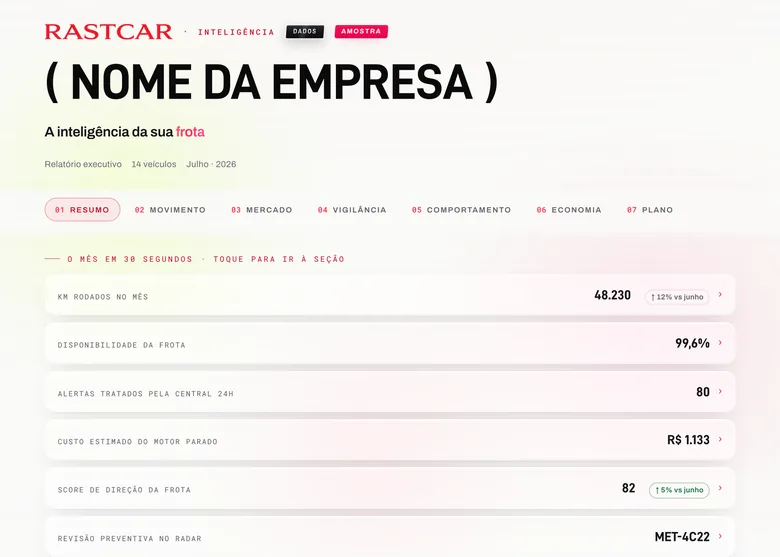
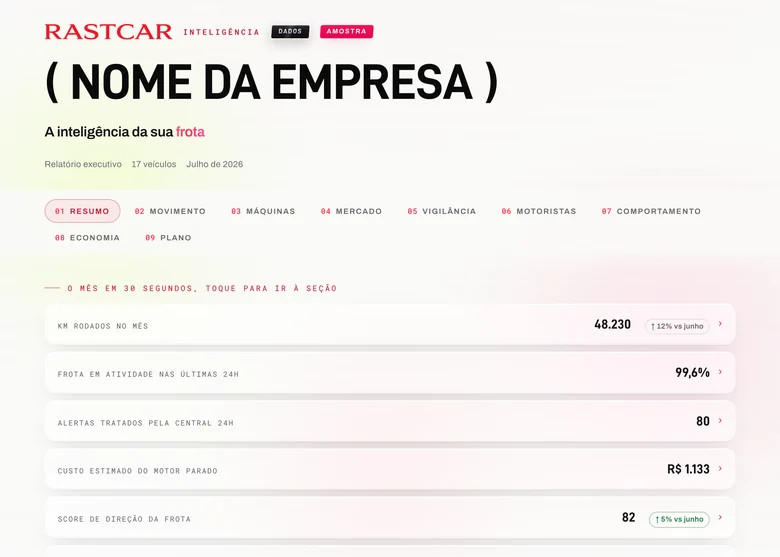
Telas da landing refeitas sobre o relatorio de hoje, com Maquinas e Motoristas

diff --git a/dados/index.html b/dados/index.html
@@ -260,11 +260,13 @@ img{max-width:100%}
    tras assume o centro. Zero scroll-jacking: o JS so LE o scroll.
    ============================================================ */
 #story{position:relative}
-/* 8 folhas x 80vh · a troca de capitulo precisa de CURSO. Com 340vh cada
-   giro de trackpad consumia quase um capitulo inteiro: a cena pulava e dava
-   a sensacao de quebrada. Com 640vh, uma rolada avanca uma fracao do passo
-   e a folha tem tempo de virar. */
-.story-track{position:relative;height:640vh}
+/* A troca de capitulo precisa de CURSO. Com 340vh cada giro de trackpad
+   consumia quase um capitulo inteiro: a cena pulava e dava a sensacao de
+   quebrada. O que importa nao e a altura total, e o CURSO POR TROCA: eram
+   640vh para 8 folhas (7 trocas). Com 10 folhas sao 9 trocas, entao a pista
+   cresce na mesma proporcao (640 x 9/7) para a folha continuar levando o
+   mesmo tanto de rolagem para virar. */
+.story-track{position:relative;height:820vh}
 .story-sticky{
   position:sticky;top:0;
   height:100vh;height:100svh;
@@ -1322,8 +1324,10 @@ footer a:focus-visible,.hero a:focus-visible{outline:2px solid var(--crimson);ou
         <p><strong>A capa com o nome da sua empresa.</strong> Todo mês um documento fechado, com o período, a frota ativa e o mês inteiro resumido em uma tabela.</p>
         <p><strong>O panorama do mês.</strong> Quilometragem total, horas em operação, disponibilidade e a comparação com o mês anterior. No exemplo: 48.230 km, 2.114 horas e 99,6% de disponibilidade.</p>
         <p><strong>Quem mais trabalhou.</strong> A frota inteira ordenada por quilometragem, veículo a veículo, do que mais rodou ao que quase não saiu.</p>
+        <p><strong>As máquinas, medidas em horas.</strong> Escavadeira, retroescavadeira e rolo não rodam quilômetro, produzem hora de motor. Quem tem parque de máquinas recebe um capítulo próprio pelo horímetro: horas trabalhadas, dias em serviço, máquina parada e revisão pelo marco de horas.</p>
         <p><strong>Sua frota comparada com o mercado.</strong> Km por veículo, score de direção e horas de motor parado, lado a lado com a média de frotas anônimas do mesmo porte na carteira da Rastcar.</p>
         <p><strong>O que a central viu.</strong> Cerca virtual, ignição fora de hora, excesso de velocidade e movimentação de madrugada, com placa e horário.</p>
+        <p><strong>Quem esteve ao volante.</strong> Identificação por chave eletrônica no veículo: quem dirigiu o quê, quanto rodou, como dirigiu e quanto da quilometragem saiu sem condutor identificado. Depende da chave eletrônica instalada e dos condutores cadastrados na plataforma.</p>
         <p><strong>Como a frota dirige.</strong> Score de 0 a 100 por veículo, quem precisa de atenção e quem é destaque.</p>
         <p><strong>O dinheiro que a frota deixa na mesa.</strong> Toda operação tem custo escondido. O relatório cruza os dados da frota inteira, converte o desperdício em reais e entrega a lista: quanto está vazando, em quais placas e por onde começar a recuperar. Custo escondido não sobrevive a dado. Cálculo aberto, declarado no próprio relatório, com premissas explícitas: 2 L/h e R$ 5,90 por litro.</p>
         <p><strong>O plano do mês seguinte.</strong> Movimentos práticos com placa e prazo, e uma meta para o próximo relatório cobrar.</p>
@@ -1350,16 +1354,18 @@ footer a:focus-visible,.hero a:focus-visible{outline:2px solid var(--crimson);ou
         <ul class="chips">
           <li><span class="tag ghost rv">Relatório executivo mensal</span></li>
           <li><span class="tag ghost rv" style="--d:.03s">Toda a frota, veículo a veículo</span></li>
-          <li><span class="tag ghost rv" style="--d:.06s">Km por dia, dias rodados</span></li>
-          <li><span class="tag ghost rv" style="--d:.09s">Sua frota vs o mercado</span></li>
-          <li><span class="tag ghost rv" style="--d:.12s">Score de comportamento</span></li>
-          <li><span class="tag ghost rv" style="--d:.15s">Tempo ocioso, custo estimado</span></li>
-          <li><span class="tag ghost rv" style="--d:.18s">Alertas por período do dia</span></li>
-          <li><span class="tag ghost rv" style="--d:.21s">Ranking da operação</span></li>
-          <li><span class="tag ghost rv" style="--d:.24s">Revisão pela quilometragem</span></li>
-          <li><span class="tag ghost rv" style="--d:.27s">Cobertura de sinal</span></li>
-          <li><span class="tag ghost rv" style="--d:.3s">Comparação com o mês anterior</span></li>
-          <li><span class="tag ghost rv" style="--d:.33s">Plano do mês seguinte</span></li>
+          <li><span class="tag ghost rv" style="--d:.06s">Máquinas medidas em horas</span></li>
+          <li><span class="tag ghost rv" style="--d:.09s">Km por dia, dias rodados</span></li>
+          <li><span class="tag ghost rv" style="--d:.12s">Sua frota vs o mercado</span></li>
+          <li><span class="tag ghost rv" style="--d:.15s">Score de comportamento</span></li>
+          <li><span class="tag ghost rv" style="--d:.18s">Motoristas ao volante</span></li>
+          <li><span class="tag ghost rv" style="--d:.21s">Tempo ocioso, custo estimado</span></li>
+          <li><span class="tag ghost rv" style="--d:.24s">Alertas por período do dia</span></li>
+          <li><span class="tag ghost rv" style="--d:.27s">Ranking da operação</span></li>
+          <li><span class="tag ghost rv" style="--d:.3s">Revisão por km e por hora</span></li>
+          <li><span class="tag ghost rv" style="--d:.33s">Cobertura de sinal</span></li>
+          <li><span class="tag ghost rv" style="--d:.36s">Comparação com o mês anterior</span></li>
+          <li><span class="tag ghost rv" style="--d:.39s">Plano do mês seguinte</span></li>
         </ul>
       </div>
     </section>
@@ -1638,24 +1644,29 @@ footer a:focus-visible,.hero a:focus-visible{outline:2px solid var(--crimson);ou
   var track  = story.querySelector('.story-track');
   if(!deck || !asides || !track) return;
 
-  /* as 8 folhas · imagem real do relatorio, uma por capitulo */
+  /* as 10 folhas · imagem real do relatorio, uma por capitulo */
   var PAGS = [
-    {f:'rel-1-capa',      n:'01', h:'Chega com o nome da sua empresa', toque:1,
+    {f:'rel-1-capa',       n:'01', h:'Chega com o nome da sua empresa', toque:1,
      p:'Um documento fechado por mês, com o período, a frota ativa e o mês inteiro resumido logo na abertura.'},
-    {f:'rel-2-panorama',  n:'02', h:'O mês inteiro em um número',
+    {f:'rel-2-panorama',   n:'02', h:'O mês inteiro em um número',
      p:'Quilometragem, horas em operação, disponibilidade e o que mudou desde o mês passado.'},
-    {f:'rel-3-ranking',   n:'03', h:'Quem trabalhou e quem ficou parado',
+    {f:'rel-3-ranking',    n:'03', h:'Quem trabalhou e quem ficou parado',
      p:'A frota inteira em ordem, veículo a veículo, do que mais rodou ao que quase não saiu da garagem.'},
-    {f:'rel-4-porte',     n:'04', h:'Sua frota comparada com o mercado',
+    {f:'rel-4-maquinas',   n:'04', h:'A máquina se mede por hora, não por quilômetro',
+     p:'Quem tem escavadeira, retroescavadeira ou rolo ganha um capítulo próprio, medido pelo horímetro: horas trabalhadas, dias em serviço e a revisão que vence por hora de motor.'},
+    {f:'rel-5-porte',      n:'05', h:'Sua frota comparada com o mercado',
      p:'Km por veículo, direção e motor parado na mesma régua de frotas anônimas do seu porte.'},
-    {f:'rel-5-escudo',    n:'05', h:'O que a central viu de madrugada', toque:1,
+    {f:'rel-6-escudo',     n:'06', h:'O que a central viu de madrugada', toque:1,
      p:'Cerca virtual, ignição fora de hora e movimentação noturna, com placa e horário.'},
-    {f:'rel-6-direcao',   n:'06', h:'O volante vira nota',
+    {f:'rel-7-motoristas', n:'07', h:'Cada quilômetro com um dono',
+     p:'O ranking mostra quem esteve ao volante de cada veículo, quanto rodou, como dirigiu e quanto da quilometragem saiu sem ninguém identificado.',
+     s:'Depende da chave eletrônica no veículo e dos condutores cadastrados na plataforma.'},
+    {f:'rel-8-direcao',    n:'08', h:'O volante vira nota',
      p:'Score de 0 a 100 por veículo. A conversa com a equipe deixa de ser opinião e passa a ser número.'},
-    {f:'rel-7-economia',  n:'07', h:'O dinheiro que a frota deixa na mesa',
+    {f:'rel-9-economia',   n:'09', h:'O dinheiro que a frota deixa na mesa',
      p:'Toda operação tem custo escondido. O relatório cruza os dados da frota inteira, converte o desperdício em reais e entrega a lista: quanto está vazando, em quais placas e por onde começar a recuperar. Custo escondido não sobrevive a dado.',
      s:'Cálculo aberto, declarado no próprio relatório, com premissas explícitas: 2 L/h e R$ 5,90 por litro.'},
-    {f:'rel-8-plano',     n:'08', h:'O mês que vem já vem com plano',
+    {f:'rel-10-plano',     n:'10', h:'O mês que vem já vem com plano',
      p:'Movimentos práticos com placa e prazo, e uma meta para o próximo relatório cobrar.'}
   ];
   var N = PAGS.length;

diff --git a/index.html b/index.html
@@ -152,6 +152,15 @@ nav.seg{
 }
 nav.seg .wrap{display:flex;gap:6px;height:var(--nav-h);align-items:center;overflow-x:auto;scrollbar-width:none}
 nav.seg .wrap::-webkit-scrollbar{display:none}
+/* A fileira de 9 secoes mede ~1190px e so cabe inteira acima de 1400px de
+   janela: em notebook de 1280 o indice saia CORTADO no meio da palavra.
+   No desktop ninguem rola barra de indice de lado, entao ela QUEBRA em duas
+   linhas quando nao couber. O rolo horizontal continua no celular, onde o
+   gesto e natural. Estrutural: vale pra qualquer largura e qualquer
+   quantidade de secoes, nao so pras 9 de hoje. */
+@media (min-width:820px){
+  nav.seg .wrap{flex-wrap:wrap;height:auto;overflow:visible;row-gap:4px;padding-top:13px;padding-bottom:13px}
+}
 nav.seg a{
   flex:0 0 auto;font-family:var(--head);font-weight:600;font-size:11px;letter-spacing:.13em;text-transform:uppercase;
   color:var(--muted);text-decoration:none;padding:7px 14px;border-radius:999px;
@@ -2328,7 +2337,10 @@ function __boot(){
     if(acao) row('#plano','Primeira ação do mês que vem', esc(acao.textContent), '', true);
     if(rows.length<3) return; // com pouco dado a porta de entrada não ajuda
     var sec=document.createElement('section'); sec.className='block dg'; sec.id='mes30';
-    sec.innerHTML='<p class="dgt reveal">O mês em 30 segundos<span class="scr">, toque para ir à seção</span></p>'+
+    /* a frase inteira num SO item de flex: solta, o "<span class=scr>" virava
+       item proprio e o gap de 11px do .dgt caia ANTES da virgula ("SEGUNDOS ,
+       TOQUE"). O gap existe pro risco do ::before e nao pode sair. */
+    sec.innerHTML='<p class="dgt reveal"><span>O mês em 30 segundos<span class="scr">, toque para ir à seção</span></span></p>'+
       '<div class="dgrid reveal">'+rows.join('')+'</div>';
     mn.insertBefore(sec, mn.firstElementChild);
     Array.prototype.forEach.call(sec.querySelectorAll('.reveal'),function(n){ watch(n); });
